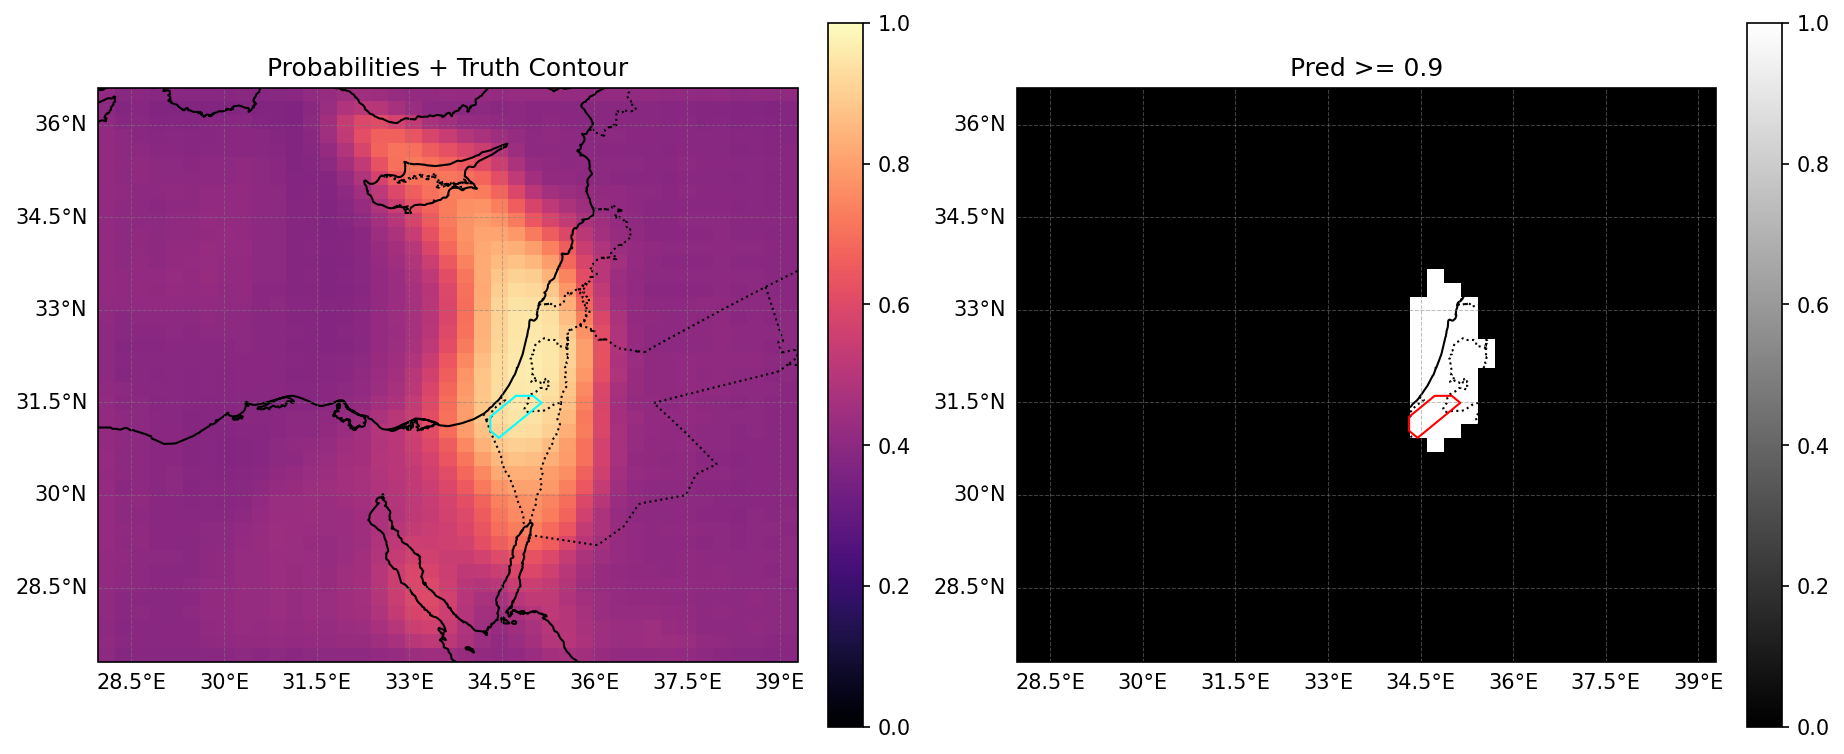
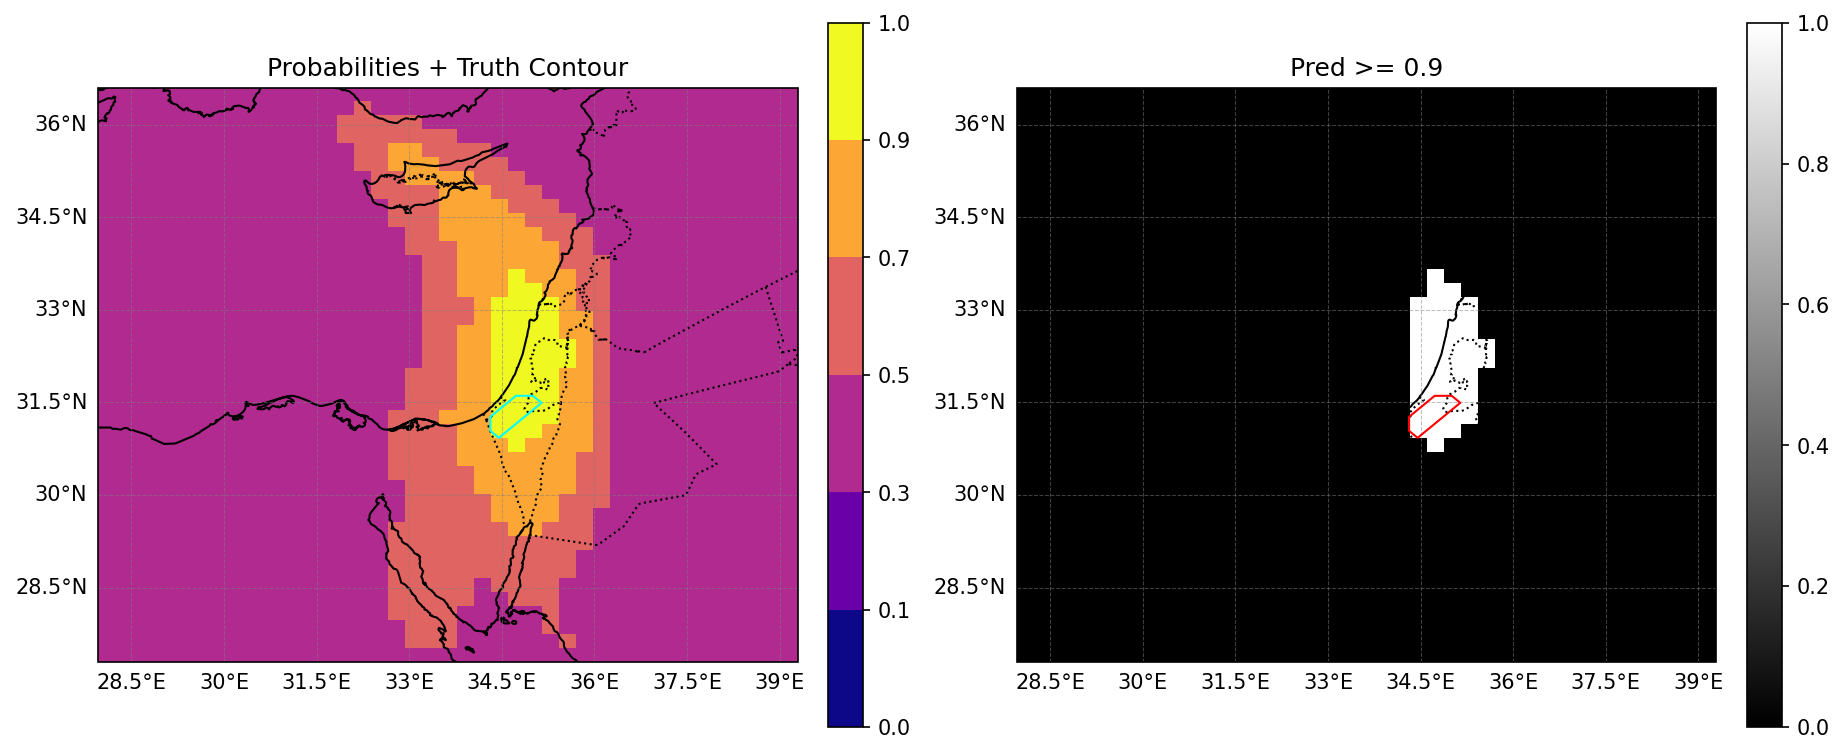
changd the colormap to be discrete instead of continuous for a more intuitive understanding of the probabilities

Changed region(s): [[0.0309, 0.0305, 0.4946, 0.9761]]

diff --git a/training/visualization.py b/training/visualization.py
@@ -1,6 +1,7 @@
 import os
 
 import matplotlib.pyplot as plt
+import matplotlib.colors as mcolors
 import cartopy.crs as ccrs
 import cartopy.feature as cfeature
 import numpy as np
@@ -127,6 +128,16 @@ def _apply_geo_axis_style(axis, min_lon, max_lon, min_lat, max_lat):
     )
     gridliner.top_labels = False
     gridliner.right_labels = False
+
+
+def _get_probability_colormap(probability_bounds=None, cmap_name="plasma"):
+    """Return a discrete colormap and norm for probability visualization."""
+    if probability_bounds is None:
+        probability_bounds = [0.0, 0.1, 0.3, 0.5, 0.7, 0.9, 1.0]
+
+    cmap = plt.get_cmap(cmap_name, len(probability_bounds) - 1)
+    norm = mcolors.BoundaryNorm(probability_bounds, cmap.N)
+    return probability_bounds, cmap, norm
 
 
 def plot_original_sample_maps(
@@ -336,6 +347,7 @@ def inspect_probability_maps(
     lightning_occurrence_index=0,
     channel_names=None,
     sample_metadata=None,
+    probability_bounds=None,
 ):
     """
     Save diagnostic plots for one sample from a loader.
@@ -399,6 +411,9 @@ def inspect_probability_maps(
 
     lightning_probs = prob_map[lightning_mask]
     background_probs = prob_map[background_mask]
+    probability_bounds, probability_cmap, probability_norm = _get_probability_colormap(
+        probability_bounds
+    )
 
     figure_path = os.path.join(
         output_dir, f"{prefix}_batch{batch_index}_sample{sample_index}_maps.png"
@@ -424,18 +439,30 @@ def inspect_probability_maps(
         axes[current_channel].set_title(input_label)
         plt.colorbar(im, ax=axes[current_channel], fraction=0.046, pad=0.04)
 
-    im_prob = axes[-4].imshow(prob_map, cmap="magma", vmin=0.0, vmax=1.0)
+    im_prob = axes[-4].imshow(prob_map, cmap=probability_cmap, norm=probability_norm)
     axes[-4].set_title("Predicted Probabilities")
-    plt.colorbar(im_prob, ax=axes[-4], fraction=0.046, pad=0.04)
+    plt.colorbar(
+        im_prob,
+        ax=axes[-4],
+        fraction=0.046,
+        pad=0.04,
+        ticks=probability_bounds,
+    )
 
     im_true = axes[-3].imshow(true_map, cmap="Blues")
     axes[-3].set_title("True Lightning")
     plt.colorbar(im_true, ax=axes[-3], fraction=0.046, pad=0.04)
 
-    im_overlay = axes[-2].imshow(prob_map, cmap="magma", vmin=0.0, vmax=1.0)
+    im_overlay = axes[-2].imshow(prob_map, cmap=probability_cmap, norm=probability_norm)
     axes[-2].contour(true_map, levels=[0.5], colors="cyan", linewidths=1)
     axes[-2].set_title("Probabilities + Truth Contour")
-    plt.colorbar(im_overlay, ax=axes[-2], fraction=0.046, pad=0.04)
+    plt.colorbar(
+        im_overlay,
+        ax=axes[-2],
+        fraction=0.046,
+        pad=0.04,
+        ticks=probability_bounds,
+    )
 
     im_binary = axes[-1].imshow(pred_binary_map, cmap="gray", vmin=0.0, vmax=1.0)
     axes[-1].contour(true_map, levels=[0.5], colors="red", linewidths=1)
@@ -587,6 +614,7 @@ def inspect_geo_probability_map(
     max_lat=None,
     min_lon=None,
     max_lon=None,
+    probability_bounds=None,
 ):
     """
     Save diagnostic plots for one sample from a loader.
@@ -640,6 +668,9 @@ def inspect_geo_probability_map(
 
     lightning_probs = prob_map[lightning_mask]
     background_probs = prob_map[background_mask]
+    probability_bounds, probability_cmap, probability_norm = _get_probability_colormap(
+        probability_bounds
+    )
 
     figure_path = os.path.join(
         output_dir, f"{prefix}_batch{batch_index}_sample{sample_index}_maps.png"
@@ -662,9 +693,8 @@ def inspect_geo_probability_map(
     _apply_geo_axis_style(axes[-2], min_lon, max_lon, min_lat, max_lat)
     im_overlay = axes[-2].imshow(
         prob_map,
-        cmap="magma",
-        vmin=0.0,
-        vmax=1.0,
+        cmap=probability_cmap,
+        norm=probability_norm,
         extent=extent,
         origin="lower",
         transform=ccrs.PlateCarree(),
@@ -679,7 +709,13 @@ def inspect_geo_probability_map(
         transform=ccrs.PlateCarree(),
     )
     axes[-2].set_title("Probabilities + Truth Contour")
-    plt.colorbar(im_overlay, ax=axes[-2], fraction=0.046, pad=0.04)
+    plt.colorbar(
+        im_overlay,
+        ax=axes[-2],
+        fraction=0.046,
+        pad=0.04,
+        ticks=probability_bounds,
+    )
 
     # binary decision map
     _apply_geo_axis_style(axes[-1], min_lon, max_lon, min_lat, max_lat)
